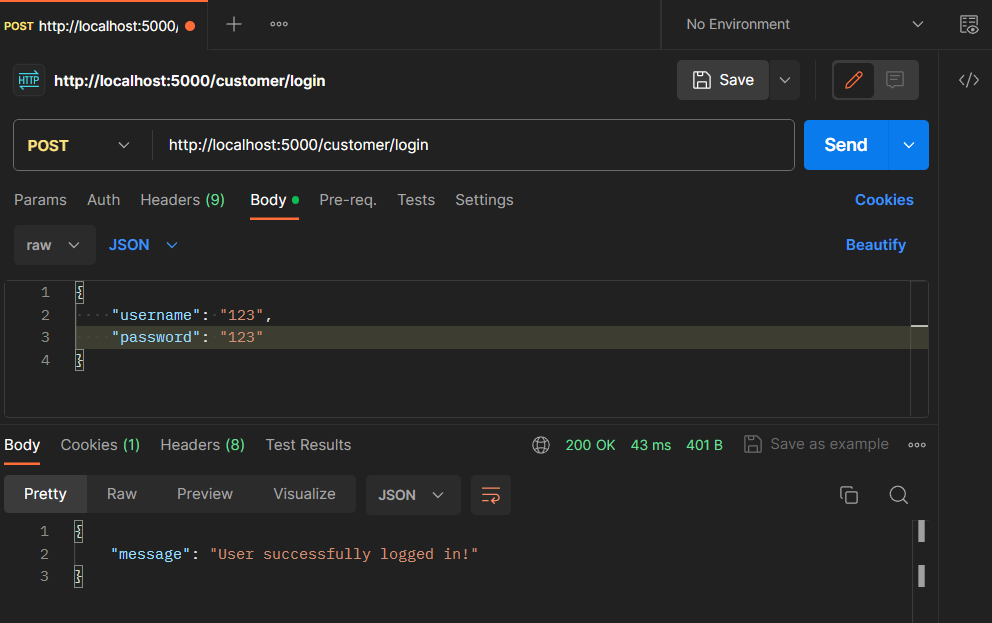
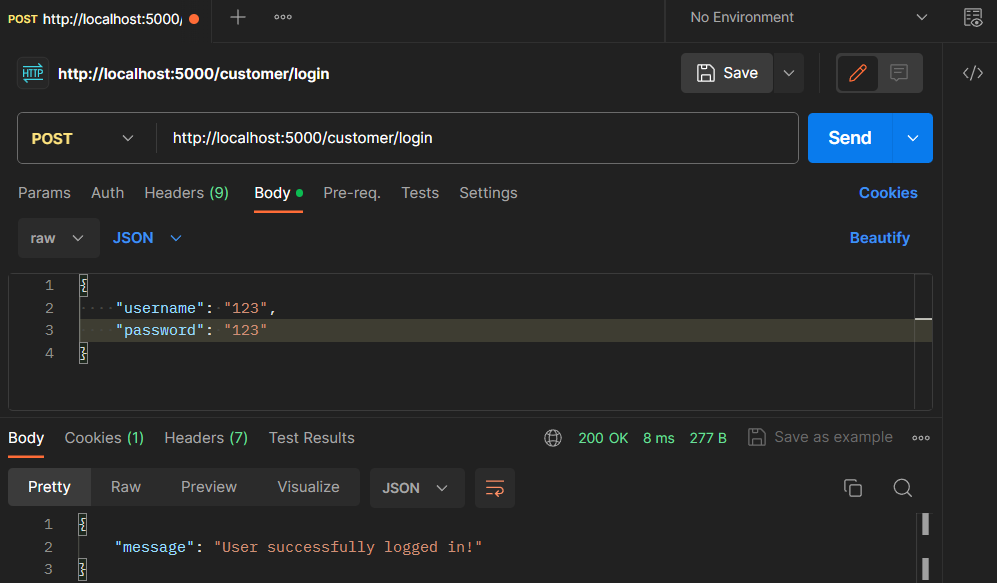
TASK 7 : Added Login Method
- Added POST Method to authorize the login session. If exist,
the user can log in.

- Added the response screenshot on PostMan.

diff --git a/final_project/router/auth_users.js b/final_project/router/auth_users.js
@@ -3,20 +3,48 @@ const jwt = require('jsonwebtoken');
 let books = require("./booksdb.js");
 const regd_users = express.Router();
 
-let users = [];
+let users = [
+  {"username": "admin", "password": "admin"},
+];
 
-const isValid = (username)=>{ //returns boolean
-//write code to check is the username is valid
+
+// This function returns true or false in case of registering the user or in login function
+
+// This is on Task 6 and 7 *****
+
+const isValid = (username)=>{ 
+  let existedUser = users.filter((user) => {
+    return user.username === username;
+  });
+  return existedUser.length > 0;
 }
 
-const authenticatedUser = (username,password)=>{ //returns boolean
-//write code to check if username and password match the one we have in records.
+const authenticatedUser = (username,password)=>{ 
+  let validUsers = users.filter((user) => user.username === username && user.password === password);
+  return validUsers.length > 0;
 }
 
-//only registered users can login
+//Here, the login method checks the authentication of the body requems. If they are valid,
+//you are in.
+
+// This is in Task 7 *****
 regd_users.post("/login", (req,res) => {
-  //Write your code here
-  return res.status(300).json({message: "Yet to be implemented"});
+  const username = req.body.username;
+  const password = req.body.password;
+
+  if (!username || !password) {
+    return res.status(400).json({message: "Error logging in. Please check username and password!"})
+  }
+
+  if (authenticatedUser(username, password)) {
+    let accessToken = jwt.sign({
+      data: password
+    }, 'access', {expiresIn: 60 * 60});
+
+    req.session.authorization = { accessToken, username }
+    return res.json({message: "User successfully logged in!"})
+  }
+  return res.status(208).json({message: "Invalid Login. Please check username and password!"});
 });
 
 // Add a book review
